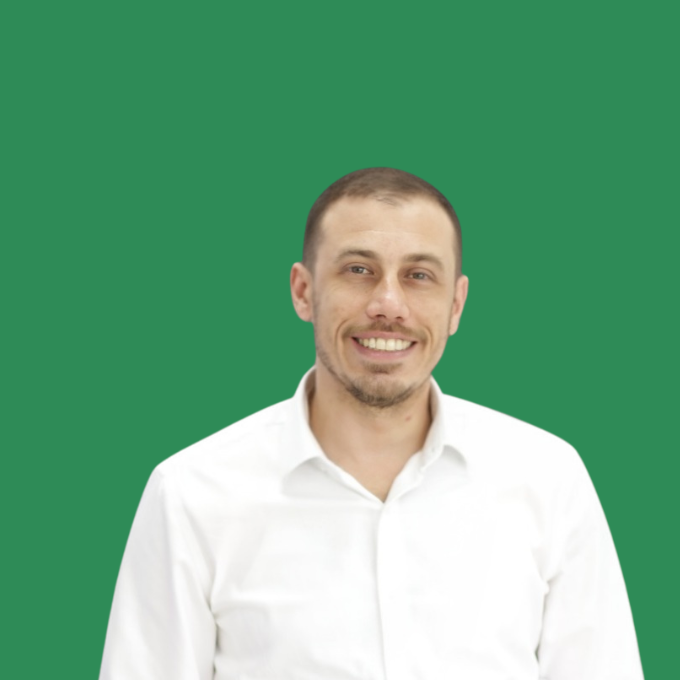
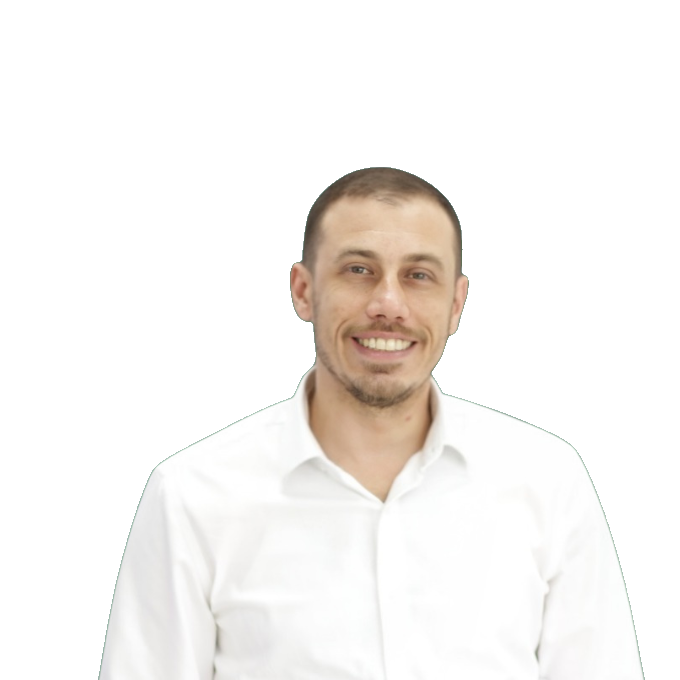
Remove backgrounds, fix WhatsApp button, fix name spelling
- halfbody.png / fullbody.png: green-screen removed, transparent background
- hebrewlogo.png: white background removed, transparent
- 'בוא נדבר' → WhatsApp button (wa.me/972507700322)
- accessibility.html: שם זוויבל corrected

Claude-Session: https://claude.ai/code/session_01HCTkuuqvdynZhdJMbZDnN7

diff --git a/index.html b/index.html
@@ -528,8 +528,9 @@
         <p style="color:var(--text-muted);font-size:16px;line-height:1.85;margin-top:16px;">
           השירות המרכזי שלי מתמקד בליווי <strong style="color:var(--text);">משפרי דיור ומשקיעים בנדל"ן</strong>. בין אם המטרה היא למנף נכס קיים, לבצע איחוד הלוואות חכם כדי לשפר תזרים, או למצוא פתרונות מימון יצירתיים — המטרה שלי תמיד זהה: להפוך עסקאות מורכבות לתהליך ברור, חד, בטוח, ותמיד עם חיוך 😊
         </p>
-        <a href="#form" style="display:inline-flex;align-items:center;gap:8px;background:#0F243E;color:white;padding:14px 28px;border-radius:12px;text-decoration:none;font-weight:800;font-size:15px;margin-top:24px;box-shadow:0 6px 20px rgba(15,36,62,.3);">
-          בוא נדבר ←
+        <a href="https://wa.me/972507700322" target="_blank" style="display:inline-flex;align-items:center;gap:8px;background:#25D366;color:white;padding:14px 28px;border-radius:12px;text-decoration:none;font-weight:800;font-size:15px;margin-top:24px;box-shadow:0 6px 20px rgba(37,211,102,.3);">
+          <svg width="20" height="20" viewBox="0 0 24 24" fill="white"><path d="M17.472 14.382c-.297-.149-1.758-.867-2.03-.967-.273-.099-.471-.148-.67.15-.197.297-.767.966-.94 1.164-.173.199-.347.223-.644.075-.297-.15-1.255-.463-2.39-1.475-.883-.788-1.48-1.761-1.653-2.059-.173-.297-.018-.458.13-.606.134-.133.298-.347.446-.52.149-.174.198-.298.298-.497.099-.198.05-.371-.025-.52-.075-.149-.669-1.612-.916-2.207-.242-.579-.487-.5-.669-.51-.173-.008-.371-.01-.57-.01-.198 0-.52.074-.792.372-.272.297-1.04 1.016-1.04 2.479 0 1.462 1.065 2.875 1.213 3.074.149.198 2.096 3.2 5.077 4.487.709.306 1.262.489 1.694.625.712.227 1.36.195 1.871.118.571-.085 1.758-.719 2.006-1.413.248-.694.248-1.289.173-1.413-.074-.124-.272-.198-.57-.347z"/><path d="M12 0C5.373 0 0 5.373 0 12c0 2.139.564 4.147 1.542 5.888L.057 23.25a.75.75 0 0 0 .921.921l5.47-1.485A11.945 11.945 0 0 0 12 24c6.627 0 12-5.373 12-12S18.627 0 12 0zm0 22c-1.9 0-3.68-.523-5.2-1.433l-.372-.222-3.863 1.048 1.048-3.754-.243-.386A9.944 9.944 0 0 1 2 12C2 6.477 6.477 2 12 2s10 4.477 10 10-4.477 10-10 10z"/></svg>
+          בוא נדבר ב-WhatsApp
         </a>
       </div>
     </div>

diff --git a/accessibility.html b/accessibility.html
@@ -53,7 +53,7 @@
   <h2>פנייה בנושא נגישות</h2>
   <p>אם נתקלת בבעיית נגישות כלשהי באתר, או אם יש לך הצעה לשיפור, נשמח שתפנה אלינו. אנו מתחייבים לטפל בפנייתך בהקדם האפשרי.</p>
   <div class="contact-box">
-    <p style="margin:0;"><strong>רכז הנגישות:</strong> צ'יקו צווייבל<br/>
+    <p style="margin:0;"><strong>רכז הנגישות:</strong> צ'יקו זוויבל<br/>
     <strong>דוא"ל:</strong> [email redacted]<br/>
     <strong>טלפון:</strong> 050-770-0322</p>
   </div>